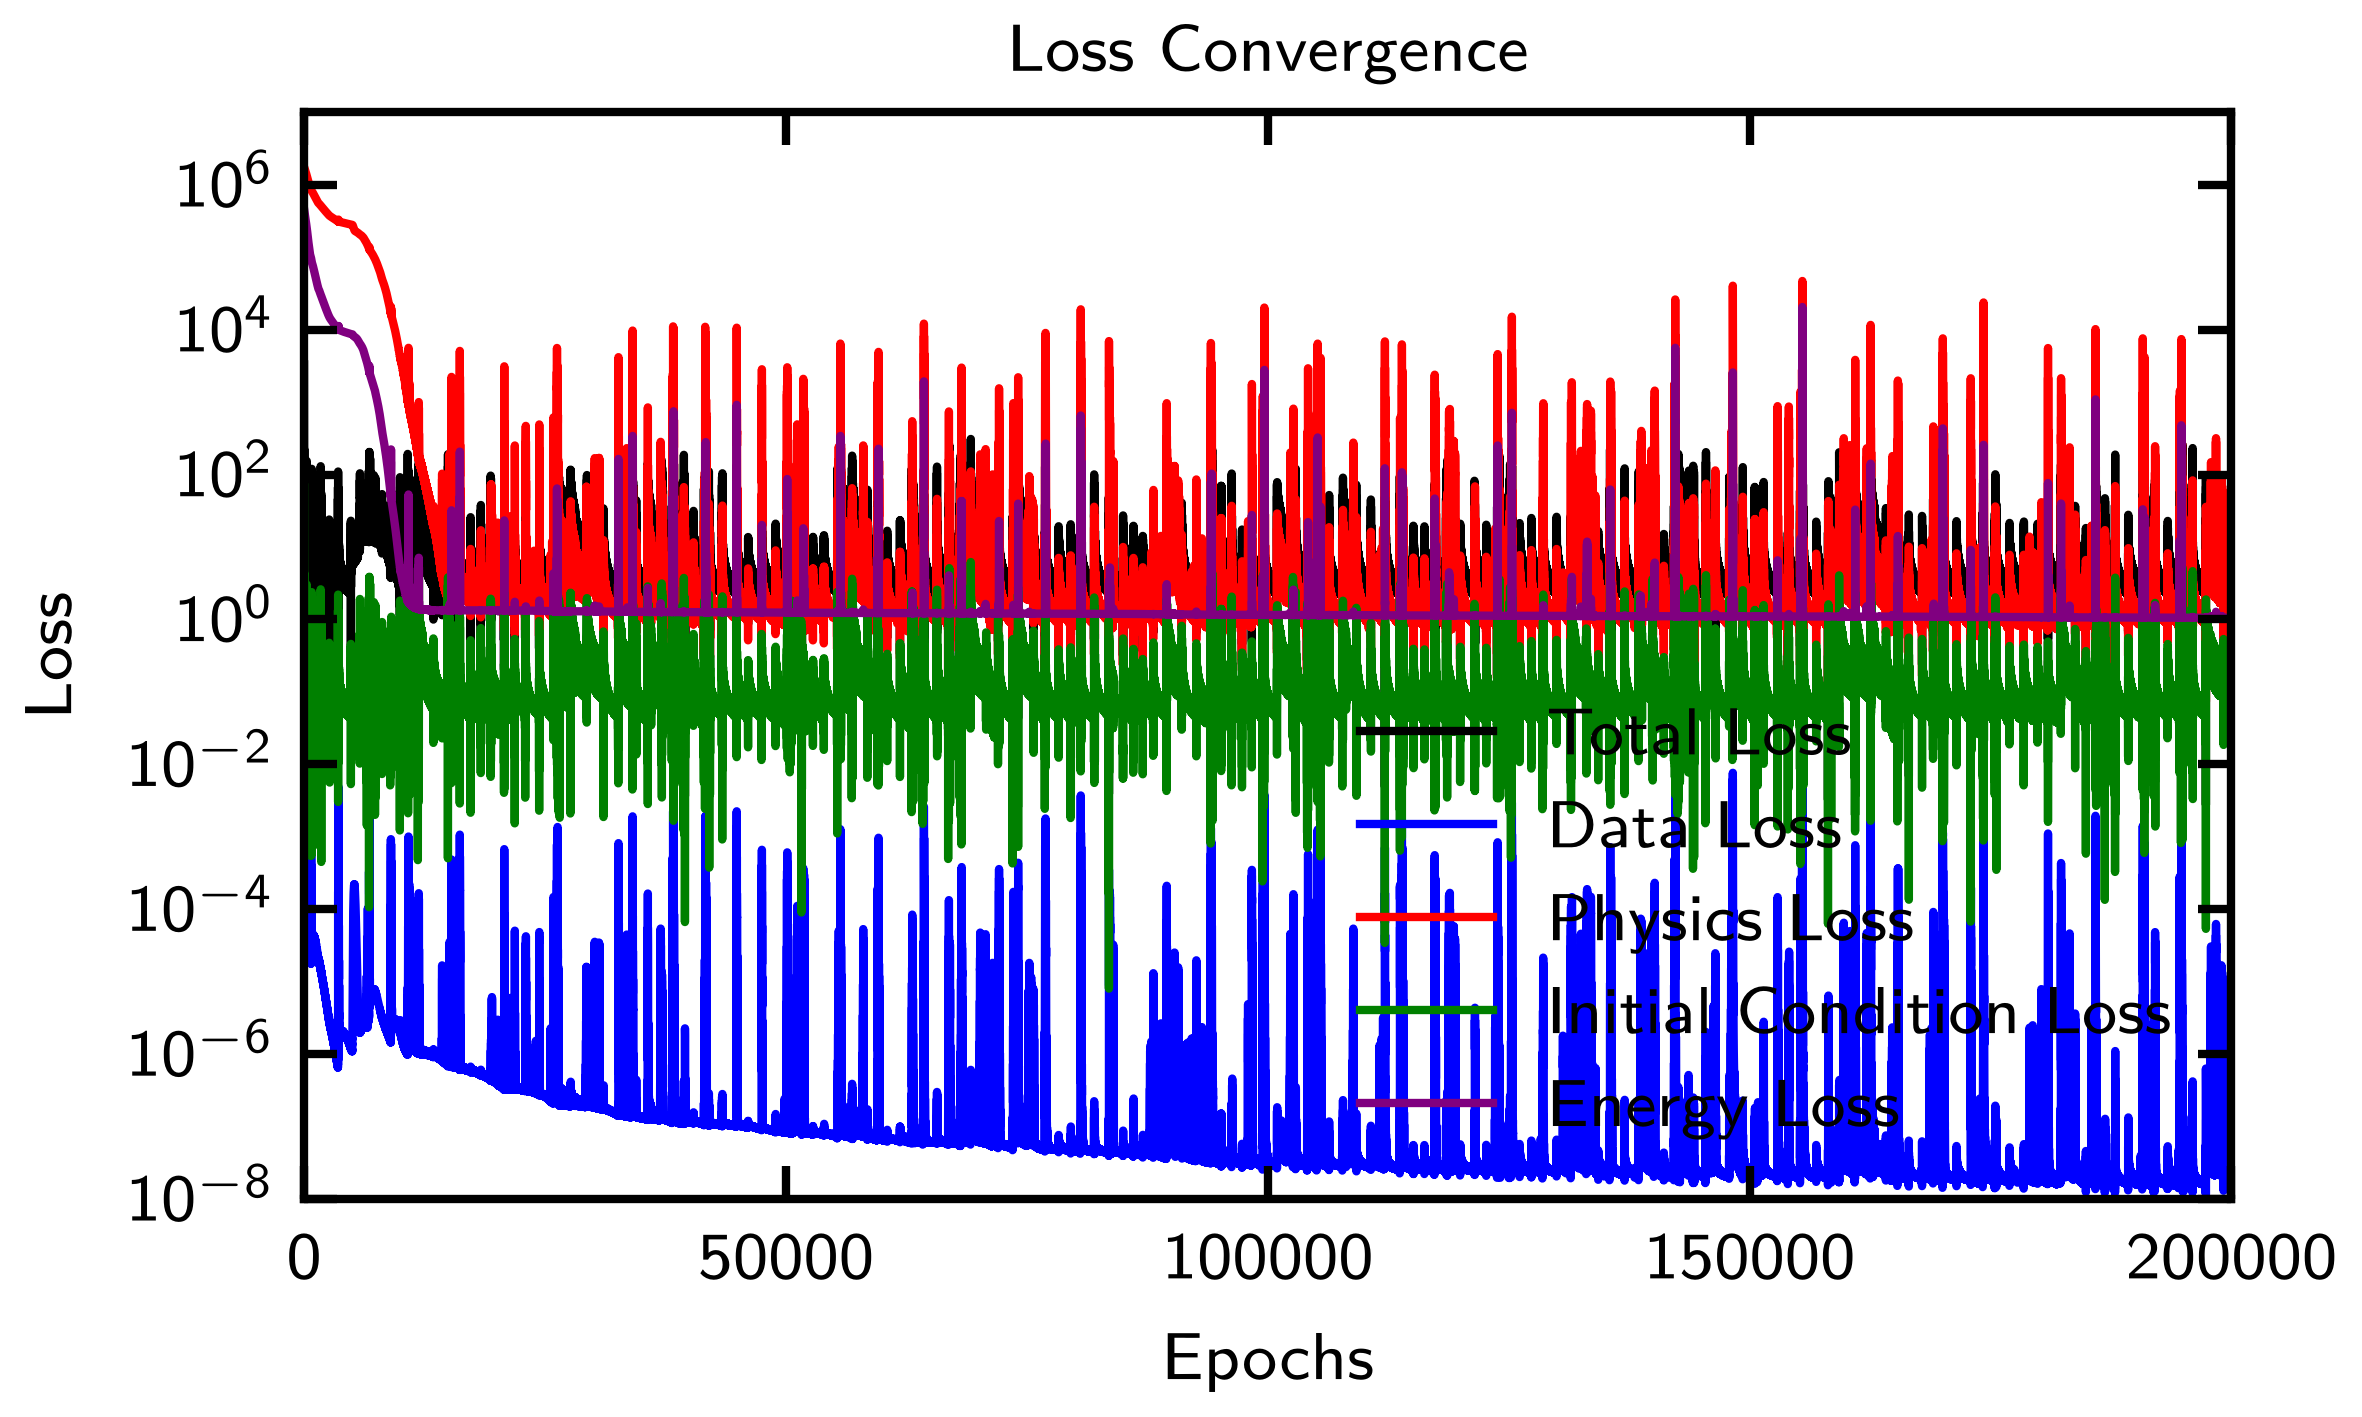
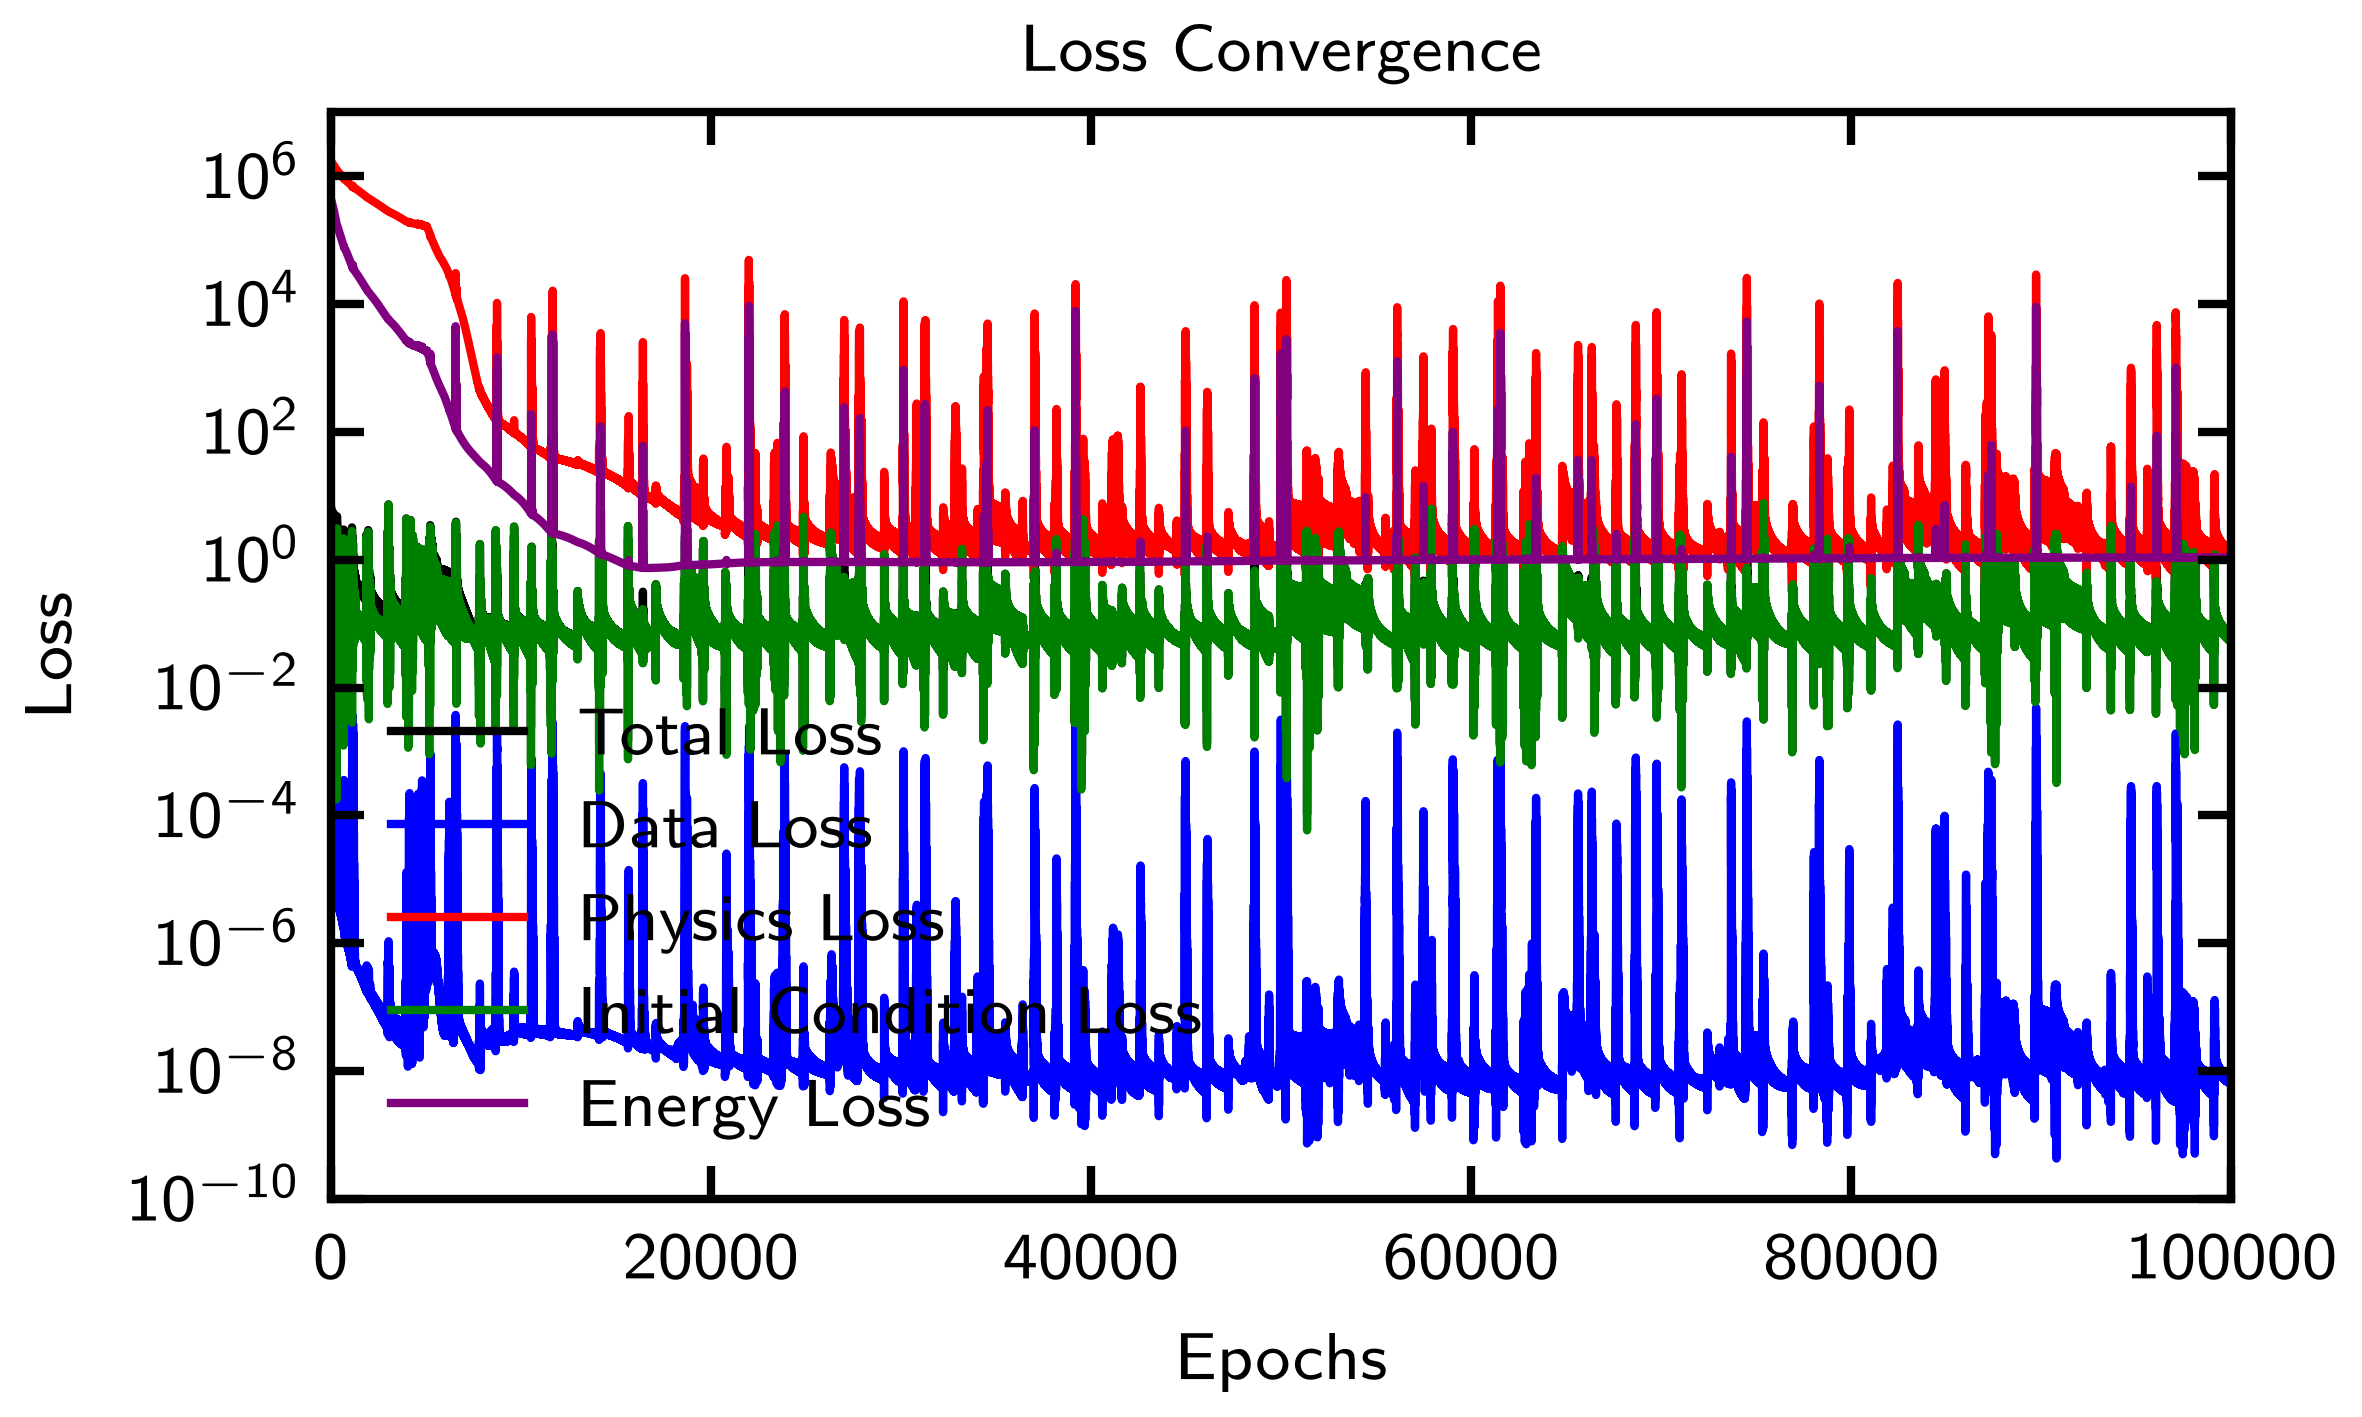
update PINNs

diff --git a/Double-Pendulum/tpinn2_ver2.py b/Double-Pendulum/tpinn2_ver2.py
@@ -78,20 +78,25 @@ OUTPUT_PREFIX = "tpinn2"
 LOG_FILE = OUTPUT_DIR / "TPINN2.log"
 
 SEED = 0
-EPOCHS = 500000
+EPOCHS = 100000
 SNAPSHOT_EVERY = 1000
 PRINT_EVERY = 100
-PHYSICS_POINTS = 2000
-PREDICTION_POINTS = 2000
+PHYSICS_POINTS = 3000
+PREDICTION_POINTS = 3000
 
-DATA_STOP = 3500    
-DATA_STEP = 70
+DATA_STOP = 1000    
+DATA_STEP = 10
 
 LEARNING_RATE = 1e-3
-LAMBDA_DATA = 1e1
-LAMBDA_PHYSICS = 1e0
-LAMBDA_INITIAL = 1e1
-LAMBDA_ENERGY = 1e-3
+LR_FACTOR = 0.5
+LR_PATIENCE = 1000
+LR_MIN = 1e-6
+
+LAMBDA_DATA = 100.0
+LAMBDA_PHYSICS = 0.1
+LAMBDA_INITIAL = 100.0
+LAMBDA_ENERGY = 0.001
+
 GRADIENT_CLIP = 1.0
 GIF_FPS = 30
 
@@ -262,7 +267,7 @@ def explicit_physics_residuals(model, t):
 # -----------------------------------------------------------------------------
 # Output
 # -----------------------------------------------------------------------------
-def save_log(device, data_total, epoch, loss, r2_1, r2_2, runtime):
+def save_log(device, data_total, epoch, loss, r2_1, r2_2, runtime, lr):
     log_lines = [
         "Name: Double Pendulum TPINN",
         f"Using device: {device}",
@@ -275,7 +280,11 @@ def save_log(device, data_total, epoch, loss, r2_1, r2_2, runtime):
         f"l1: {l1}",
         f"l2: {l2}",
         f"g: {g}",
-        f"Learning rate: {LEARNING_RATE}",
+        f"Initial learning rate: {LEARNING_RATE}",
+        f"Scheduler factor: {LR_FACTOR}",
+        f"Scheduler patience: {LR_PATIENCE}",
+        f"Scheduler min LR: {LR_MIN}",
+        f"Current learning rate: {lr:.6e}",
         f"Lambda data: {LAMBDA_DATA}",
         f"Lambda physics: {LAMBDA_PHYSICS}",
         f"Lambda initial: {LAMBDA_INITIAL}",
@@ -373,6 +382,8 @@ def main():
     OUTPUT_DIR.mkdir(parents=True, exist_ok=True)
 
     device = torch.device("cuda" if torch.cuda.is_available() else "cpu")
+
+    # device = torch.device("mps" if torch.backends.mps.is_available() else "cpu") # Use MPS if available
     print(f"Using device: {device}")
     if torch.cuda.is_available():
         print(f"GPU: {torch.cuda.get_device_name(0)}")
@@ -381,8 +392,6 @@ def main():
 
     t_ref, theta1_ref, theta2_ref, omega1_ref, omega2_ref = load_data(DATA_FILE)
     time_min, time_max = t_ref.min(), t_ref.max()
-    if time_max <= time_min:
-        raise ValueError("The time range must be greater than zero.")
 
     # Sparse measured angle data, matching the structure of the original tpinn.py.
     data_indices = np.arange(0, min(DATA_STOP, len(t_ref)), DATA_STEP)
@@ -424,6 +433,14 @@ def main():
 
     model = DoublePendulumPINN(time_min, time_max).to(device)
     optimizer = torch.optim.Adam(model.parameters(), lr=LEARNING_RATE)
+    scheduler = torch.optim.lr_scheduler.ReduceLROnPlateau(
+        optimizer,
+        mode="min",
+        factor=LR_FACTOR,
+        patience=LR_PATIENCE,
+        min_lr=LR_MIN,
+        threshold=1e-4,
+    )
 
     history = {
         name: [] for name in ("total", "data", "physics", "initial", "energy")
@@ -477,11 +494,14 @@ def main():
         history["initial"].append(initial_loss.item())
         history["energy"].append(energy_loss.item())
 
+        scheduler.step(total_loss.item())
+        current_lr = optimizer.param_groups[0]["lr"]
+
         if epoch % PRINT_EVERY == 0:
             elapsed = format_time(time.time() - start_time)
             print(
                 f"\rEpoch {epoch:6d} | Loss {total_loss.item():.6e} "
-                f"| Time {elapsed}",
+                f"| LR {current_lr:.2e} | Time {elapsed}",
                 end="",
                 flush=True,
             )
@@ -517,6 +537,7 @@ def main():
         r2_1=r2_1,
         r2_2=r2_2,
         runtime=runtime,
+        lr=optimizer.param_groups[0]["lr"],
     )
 
     print("Saving figures and animation...")

diff --git a/Double-Pendulum/fpinn2.py b/Double-Pendulum/fpinn2.py
@@ -78,7 +78,7 @@ OUTPUT_PREFIX = "fpinn2"
 LOG_FILE = OUTPUT_DIR / f"FPINN2.log"
 
 SEED = 0
-EPOCHS = 200_000
+EPOCHS = 100_000
 SNAPSHOT_EVERY = 1_000
 PRINT_EVERY = 100
 MAX_PHYSICS_MODES = 512
@@ -94,8 +94,8 @@ LEARNING_RATE_NETWORK = 1e-4
 LEARNING_RATE_SPECTRUM = 1e-4
 
 LAMBDA_DATA = 1e2
-LAMBDA_PHYSICS = 1e-3
-LAMBDA_INITIAL = 5e1
+LAMBDA_PHYSICS = 1e-4
+LAMBDA_INITIAL = 1e0
 LAMBDA_ENERGY = 1e-5
 
 GRADIENT_CLIP = 1.0
